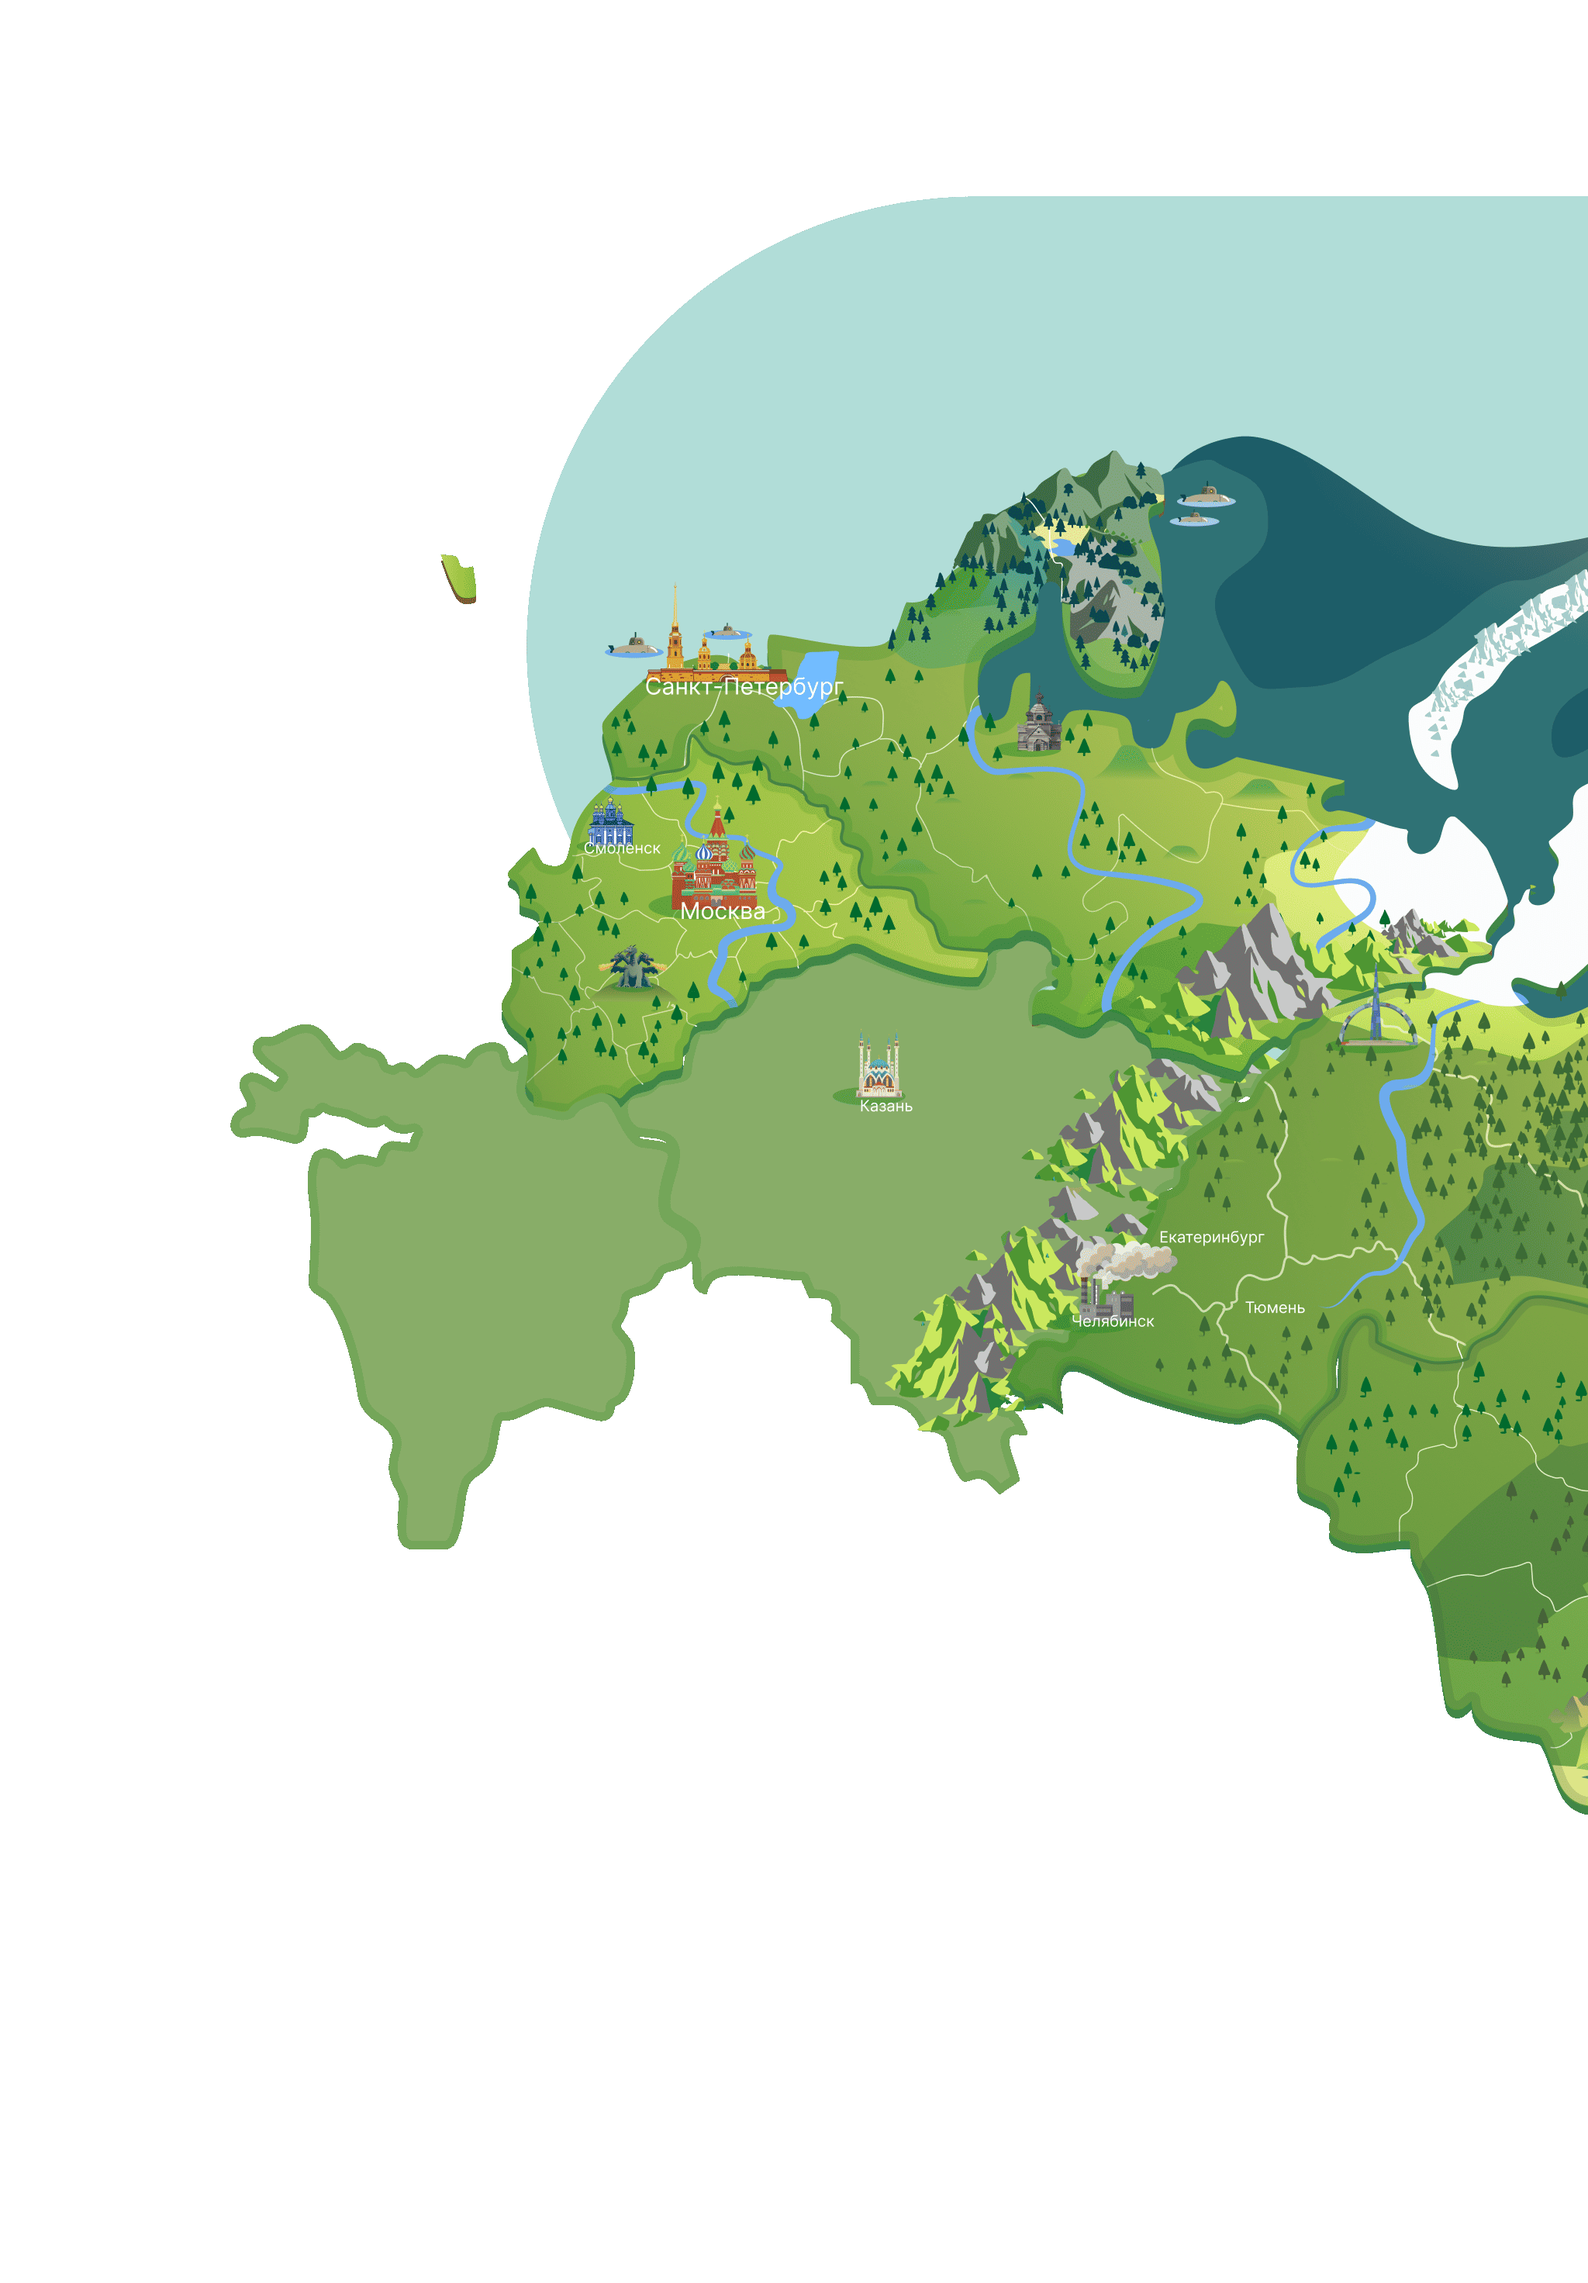
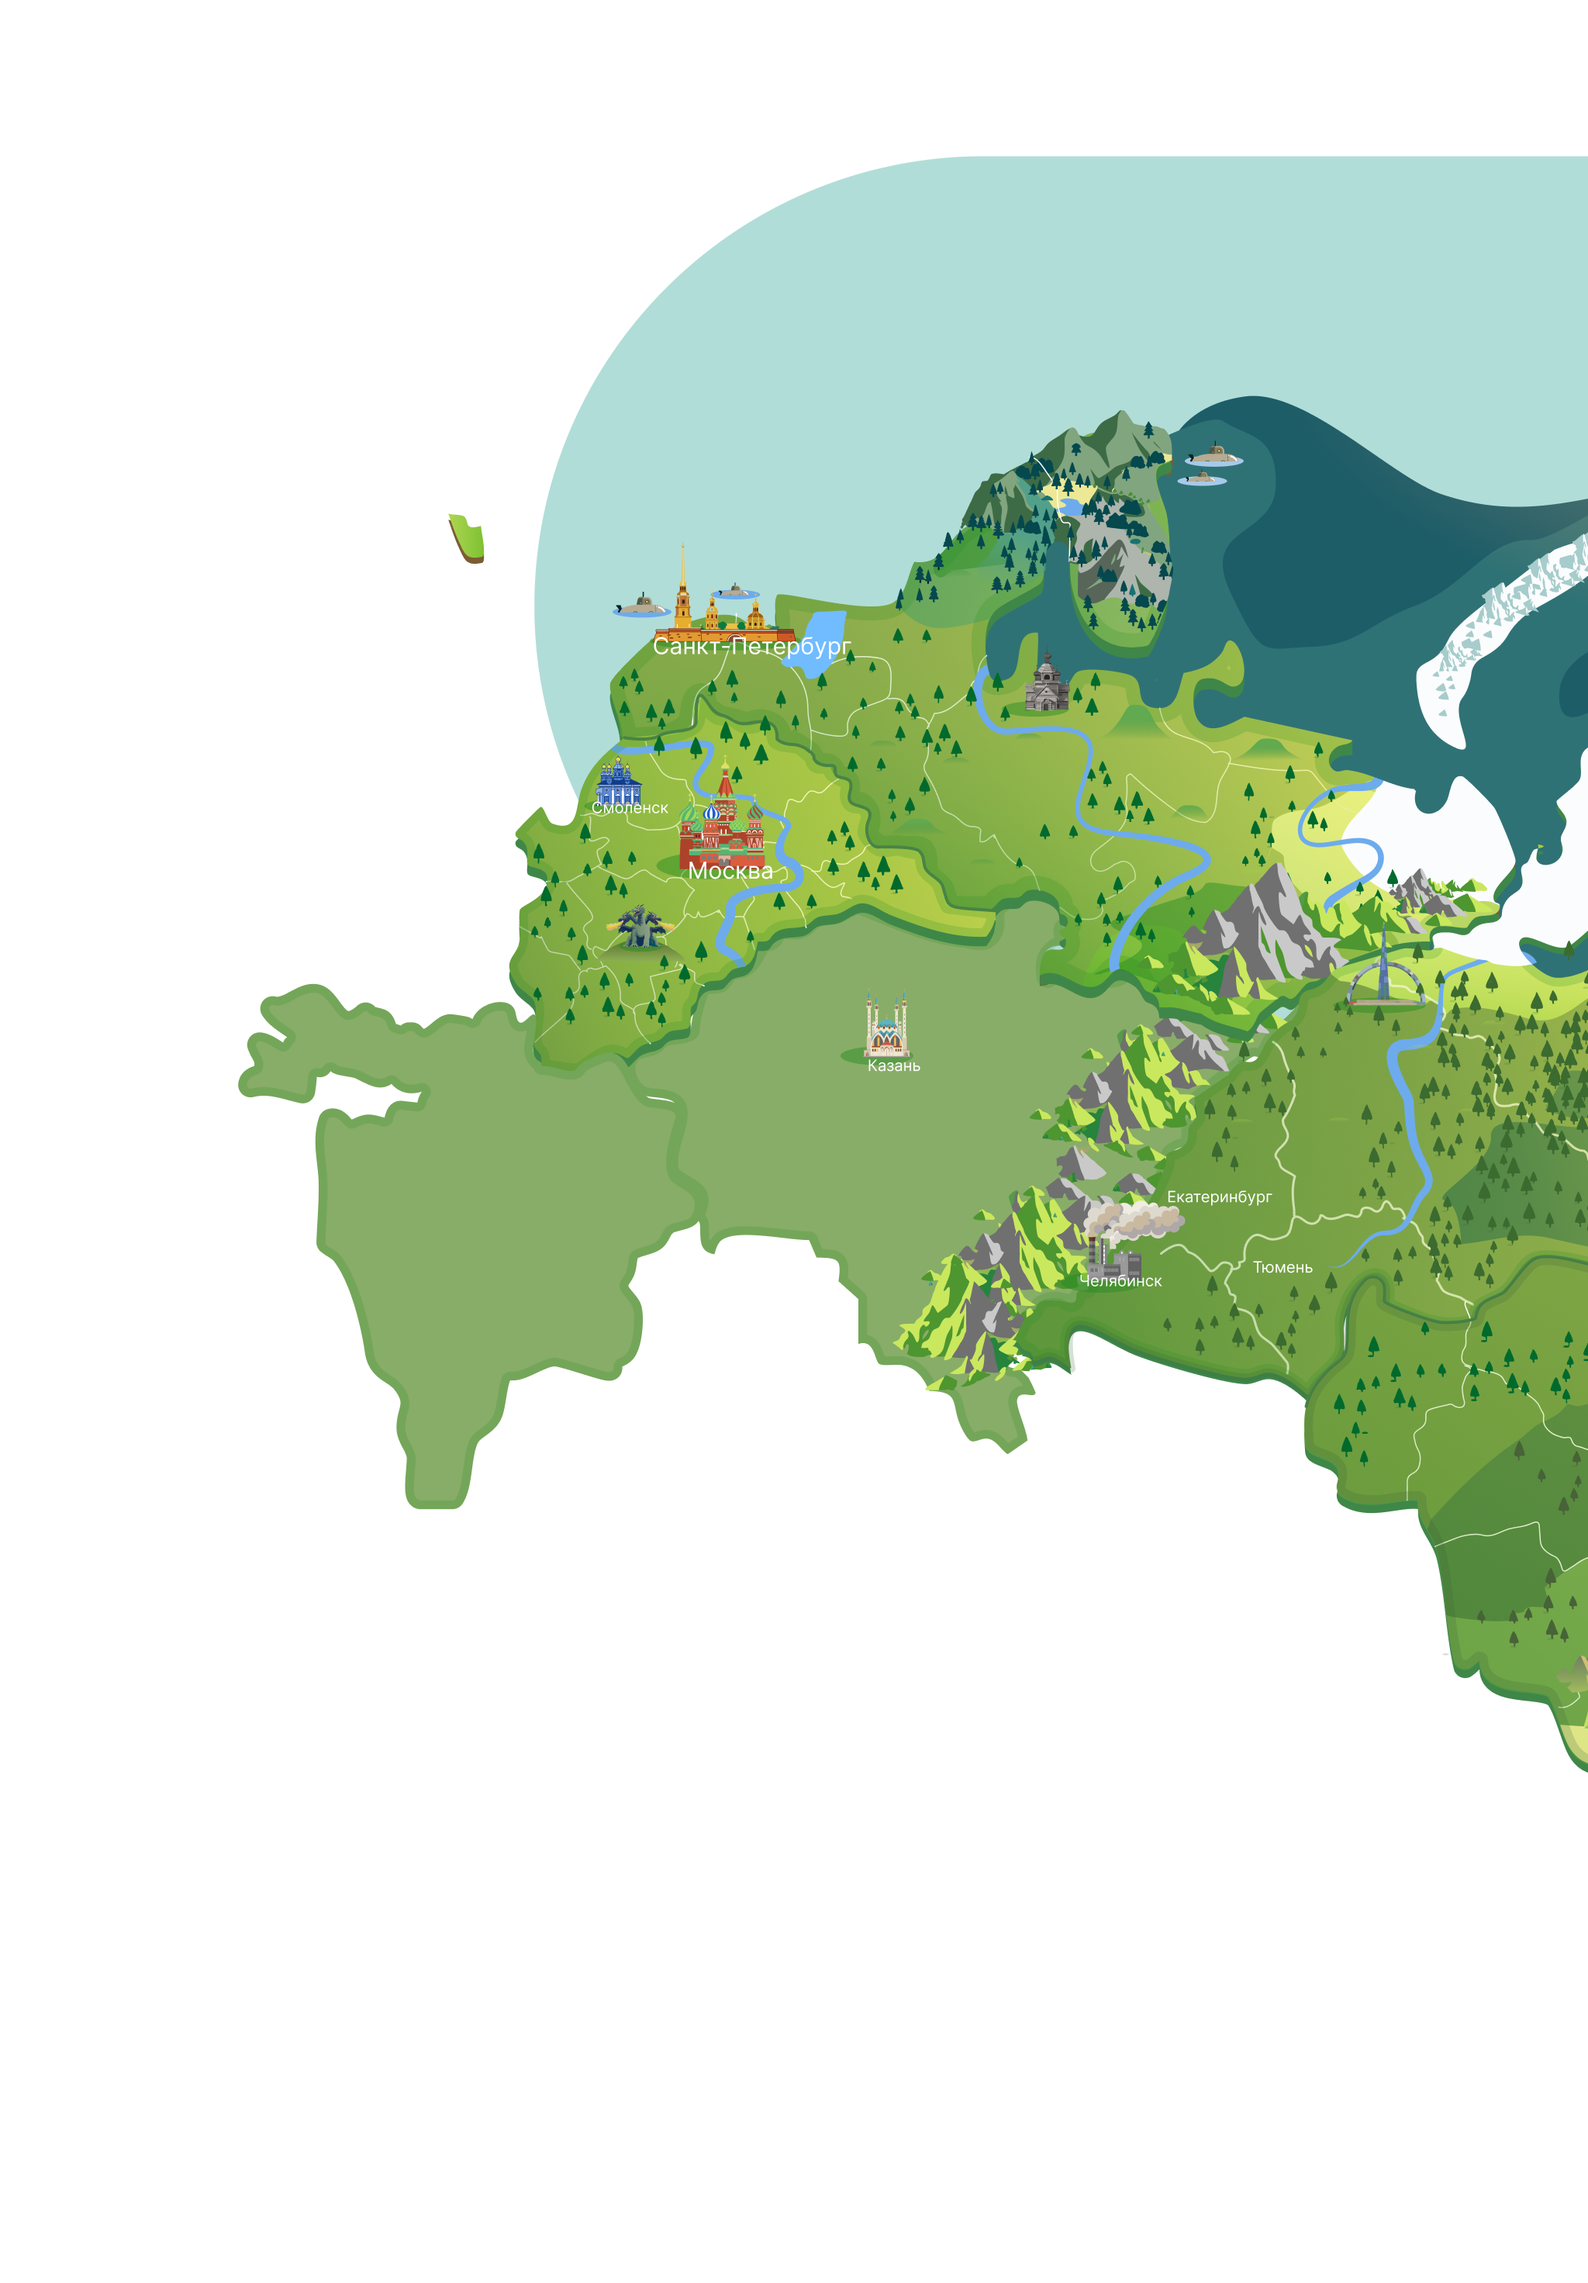
fix(Map): add high-res map image
change settings to ignore tsx files in assets
add script to split large map image (uses imageMagick)

diff --git a/src/games/game/scenes/Boot.ts b/src/games/game/scenes/Boot.ts
@@ -1,5 +1,5 @@
 import { Scene } from "phaser";
-// import { getAssetsPath } from "../../../utils/get-assets-path";
+import { getAssetsPath } from "../../../utils/get-assets-path";
 
 export class Boot extends Scene
 {
@@ -13,7 +13,7 @@ export class Boot extends Scene
     //  The Boot Scene is typically used to load in any assets you require for your Preloader, such as a game logo or background.
     //  The smaller the file size of the assets, the better, as the Boot Scene itself has no preloader.
 
-    // this.load.image("menu/background", getAssetsPath("bg.png"));
+    this.load.image("menu/background", getAssetsPath("bg.png"));
     // this.load.image("global/map", getAssetsPath("map.png"));
   }
 

diff --git a/index.html b/index.html
@@ -3,8 +3,9 @@
 
 <head>
   <meta charset="UTF-8" />
-  <meta name="viewport" content="width=device-width, initial-scale=1.0, maximum-scale=1.0, user-scalable=no">
-  <title>2048</title>
+  <!-- <meta name="viewport" content="width=device-width, initial-scale=1.0, maximum-scale=1.0, user-scalable=no"> -->
+  <meta name="viewport" content="width=device-width, user-scalable=no, minimum-scale=1.0, maximum-scale=1.0">
+  <title>Путешественник - Telegram Mini App</title>
 </head>
 
 <body>

diff --git a/eslint.config.js b/eslint.config.js
@@ -11,7 +11,7 @@ import stylistic from '@stylistic/eslint-plugin'
 export default tseslint.config(
   tseslint.configs.strict,
   tseslint.configs.stylistic,
-  { ignores: ['dist', 'src/public'] },
+  { ignores: ['dist', 'src/assets'] },
   {
     extends: [
       js.configs.recommended,

diff --git a/src/assets/text/nameform/index.html b/src/assets/text/nameform/index.html
@@ -8,7 +8,7 @@
     align-items: center;
     justify-content: center;
     padding: 1rem;
-    position: relative;
+    position: absolute;
     overflow: hidden;
   }
 
